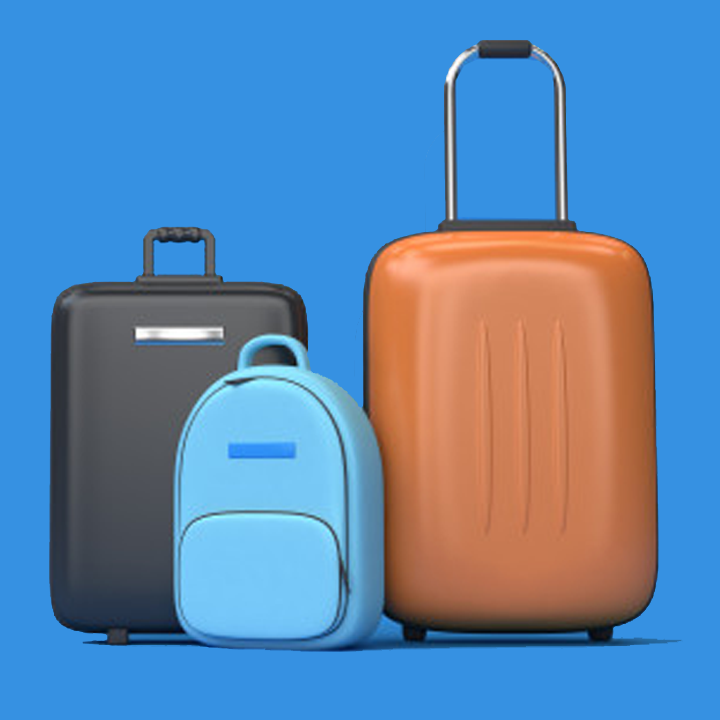
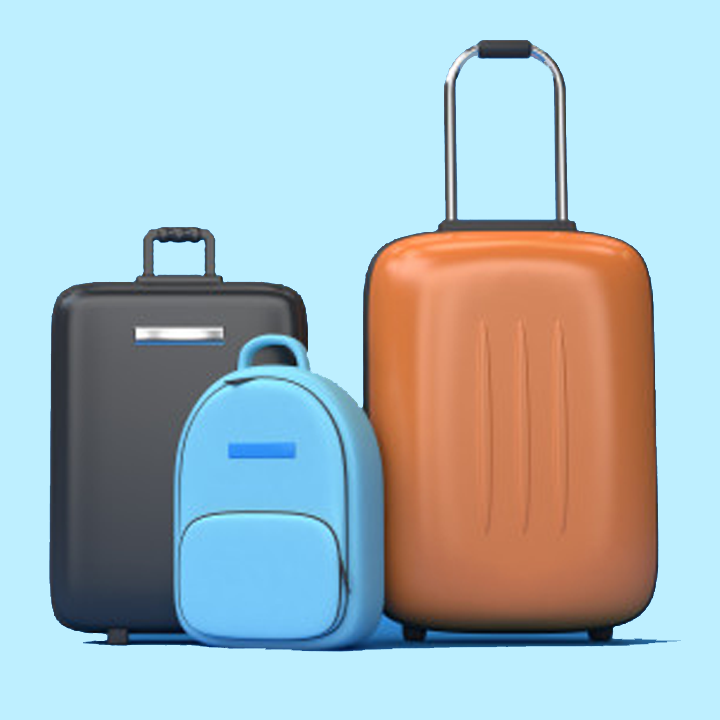
carousel some editing

diff --git a/index.html b/index.html
@@ -41,49 +41,63 @@
               </form>
             </div>
           </nav>
+    </div>
 
-          <!------------------------- Carousel ------------------------------->
+    <!------------------------- Carousel ------------------------------->
 
-          <div id="carouselExampleControls" class="carousel slide" data-ride="carousel">
-            <div class="carousel-inner">
-              <div class="carousel-item active">
-                <div class="row banner1-bg">
-                  <div class="col-sm-7 col-md-7 col-lg-7 col-xl-7">
-                    <h1>Backpack Mega Sell Offer!</h1>
-                    <p>Lorem ipsum dolor sit, amet consectetur adipisicing elit. Laborum rerum rem doloremque ad velit illo eius tempora. Repudiandae, laboriosam aut.</p>
-                    <button class="check-this-out">Check this out now</button>
-                  </div>
-                  <div class="col-sm-5 col-md-5 col-lg-5 col-xl-5">
-                    <img src="images/banner1-0.png" class="d-block w-100" alt="...">
-                  </div>
+    
+    <div class="container container-mbl">
+        <div id="carouselExampleControls" class="carousel slide" data-ride="carousel">
+          <div class="carousel-inner">
+            <div class="carousel-item active banner1-bg">
+              <div class="row align-items-center">
+                <div class="col-sm-7 col-md-7 col-lg-7 col-xl-7">
+                  <h1 class="carousel-h1">Backpack Mega Sell Offer!</h1>
+                  <p>Lorem ipsum dolor sit, amet consectetur adipisicing elit. Laborum rerum rem dolor.</p>
+                  <button class="buy-now">Check this out now</button>
+                  <h1 style="color: transparent;">.</h1>
                 </div>
-              </div>
-              <div class="carousel-item">
-                <div class="row  banner2-bg">
-                  <div class="col-sm-7 col-md-7 col-lg-7 col-xl-7"></div>
-                  <div class="col-sm-5 col-md-5 col-lg-5 col-xl-5">
-                    <img src="images/banner2-0.png" class="d-block w-100" alt="...">
-                  </div>
-                </div>
-              </div>
-              <div class="carousel-item">
-                <div class="row banner3-bg">
-                  <div class="col-sm-6 col-md-6 col-lg-6 col-xl-6"></div>
-                  <div class="col-sm-6 col-md-6 col-lg-6 col-xl-6">
-                    <img src="images/banner3-1.png" class="d-block w-100" alt="...">
-                  </div>
+                <div class="col-sm-5 col-md-5 col-lg-5 col-xl-5 carousel-mbl">
+                  <img src="images/banner1-0.png" class="d-block w-100" alt="...">
                 </div>
               </div>
             </div>
-            <a class="carousel-control-prev" href="#carouselExampleControls" role="button" data-slide="prev">
-              <span class="carousel-control-prev-icon" aria-hidden="true"></span>
-              <span class="sr-only">Previous</span>
-            </a>
-            <a class="carousel-control-next" href="#carouselExampleControls" role="button" data-slide="next">
-              <span class="carousel-control-next-icon" aria-hidden="true"></span>
-              <span class="sr-only">Next</span>
-            </a>
+            <div class="carousel-item banner2-bg">
+              <div class="row align-items-center">
+                <div class="col-sm-7 col-md-7 col-lg-7 col-xl-7">
+                  <h1 class="carousel-h1">Heavy Smart Backpack</h1>
+                  <p>Lorem ipsum dolor sit, amet consectetur adipisicing elit. Laborum rerum rem dolor.</p>
+                  <h1 class="price">$625</h1>
+                  <button class="buy-now">Buy Now</button>
+                </div>
+                <div class="col-sm-5 col-md-5 col-lg-5 col-xl-5 carousel-mbl">
+                  <img src="images/banner2-0.png" class="d-block w-100" alt="...">
+                </div>
+              </div>
+            </div>
+            <div class="carousel-item banner3-bg">
+              <div class="row align-items-center">
+                <div class="col-sm-7 col-md-7 col-lg-7 col-xl-7">
+                  <h1 class="carousel-h1">Stylish Travel Backpack</h1>
+                  <p>Lorem ipsum dolor sit, amet consectetur adipisicing elit. Laborum rerum rem dolor.</p>
+                  <h1 class="price">$820</h1>
+                  <button class="buy-now">Buy Now</button>
+                </div>
+                <div class="col-sm-5 col-md-5 col-lg-5 col-xl-5 carousel-mbl">
+                  <img src="images/banner3-1.png" class="d-block w-100" alt="...">
+                </div>
+              </div>
+            </div>
           </div>
+          <a class="carousel-control-prev" href="#carouselExampleControls" role="button" data-slide="prev">
+            <span class="carousel-control-prev-icon" aria-hidden="true"></span>
+            <span class="sr-only">Previous</span>
+          </a>
+          <a class="carousel-control-next" href="#carouselExampleControls" role="button" data-slide="next">
+            <span class="carousel-control-next-icon" aria-hidden="true"></span>
+            <span class="sr-only">Next</span>
+          </a>
+        </div>
     </div>
     
 

diff --git a/style.css b/style.css
@@ -1,3 +1,26 @@
+@media only screen and (max-width: 600px){
+    .container{
+        padding-left:0 ;
+        padding-right:0;
+        margin-bottom:20px !important;
+    }
+    .carousel-h1{
+        font-size: 1.5em;
+    }
+    .price{
+        font-size: 2em;
+    }
+    .container-mbl{
+        padding-left:15px;
+        padding-right:15px ;
+    }
+    .carousel-mbl{
+        margin-top: 2em;
+    }
+}
+.container{
+    margin-bottom: 100px;
+}
 .navbar-brand{
     width: 60px;
 }
@@ -11,11 +34,33 @@
     outline: none;
 }
 .banner1-bg{
-    background-color: #3691E2;
+    background-color: rgb(190, 239, 255);
+    border-radius: 10px;
 }
 .banner2-bg{
-    background-color: #97DAD3
+    background-color: rgb(190, 255, 255);
+    border-radius: 10px;
 }
 .banner3-bg{
     background-color: #F1E158;
+    border-radius: 10px;
+}
+
+.carousel-control-next, .carousel-control-prev {
+    width: 8%;
+}
+
+.carousel-item{
+    padding: 20px 60px;
+}
+.price{
+    color: #17a2b8;
+}
+.buy-now{
+    background-image: linear-gradient(to bottom,#2eaabd 0%,#17a2b8 100% );
+    color: #fff;
+    border: none;
+    border-radius: 8px;
+    padding: 9px 25px;
+    cursor: pointer;
 }
